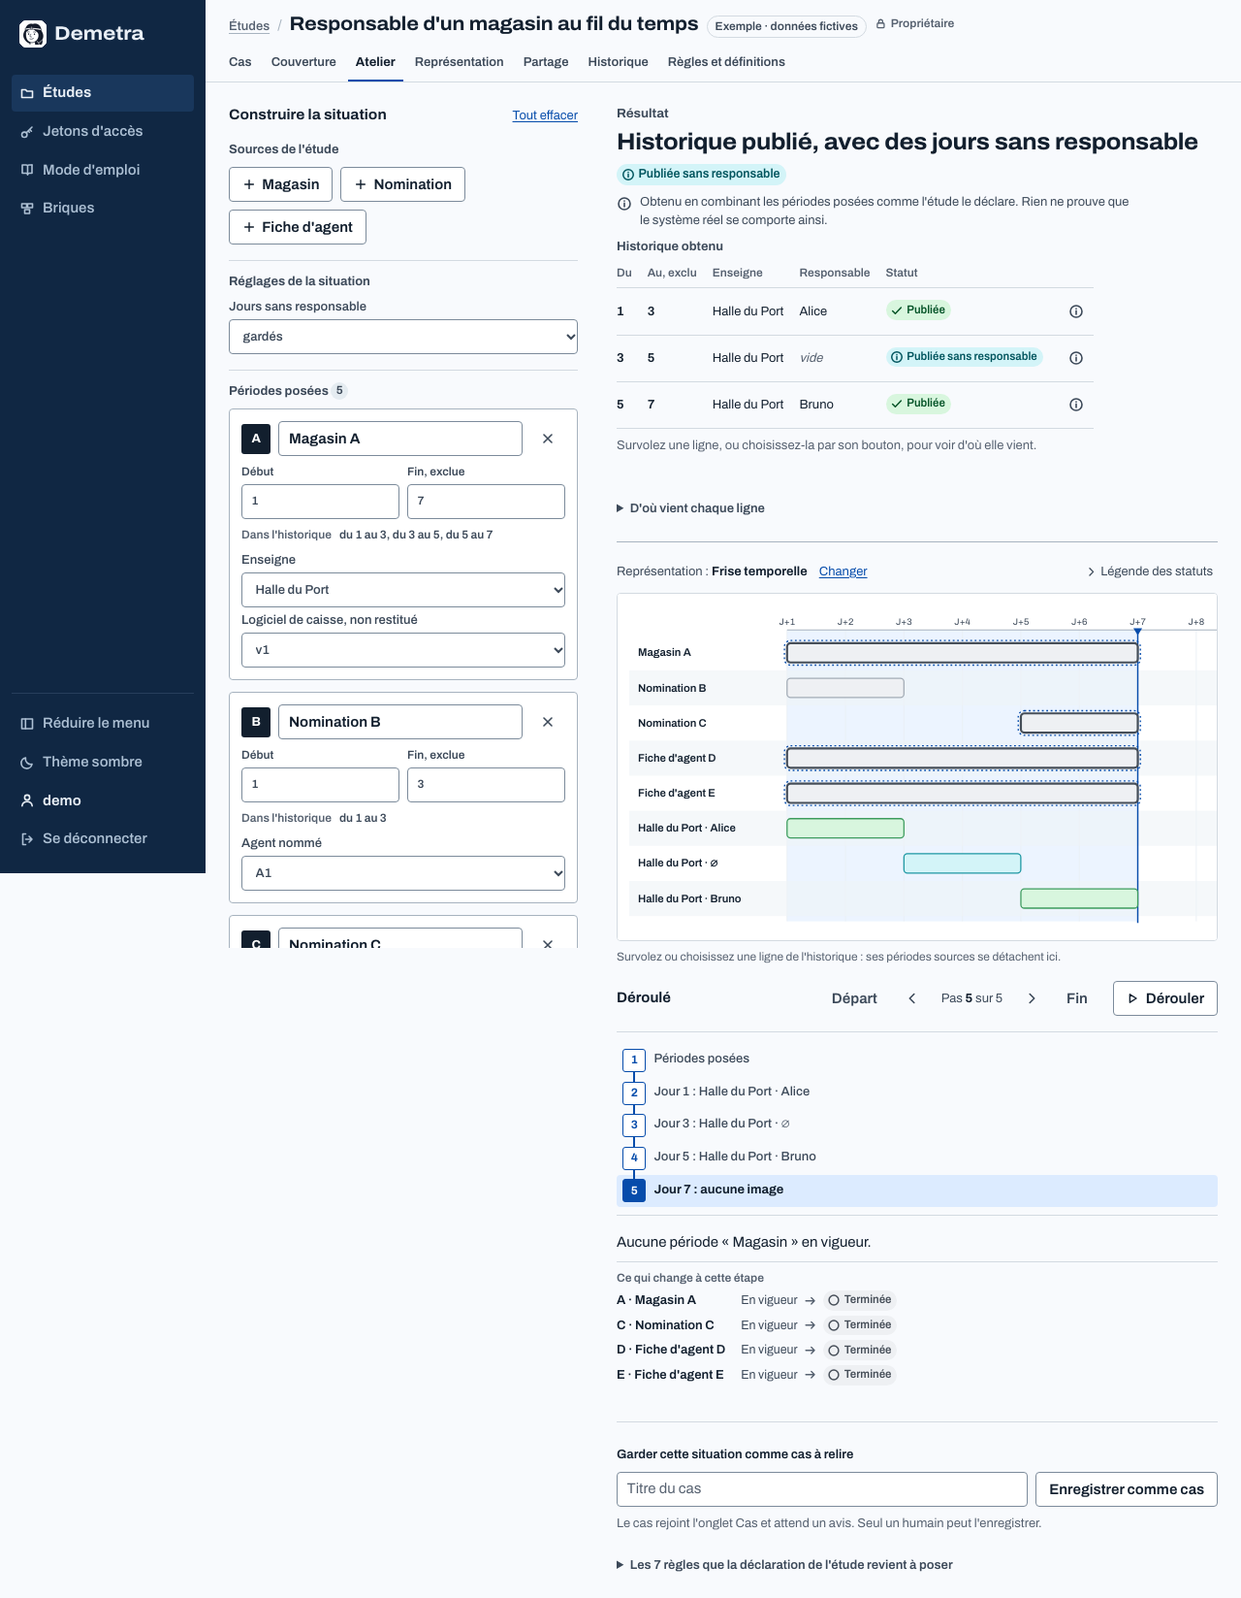
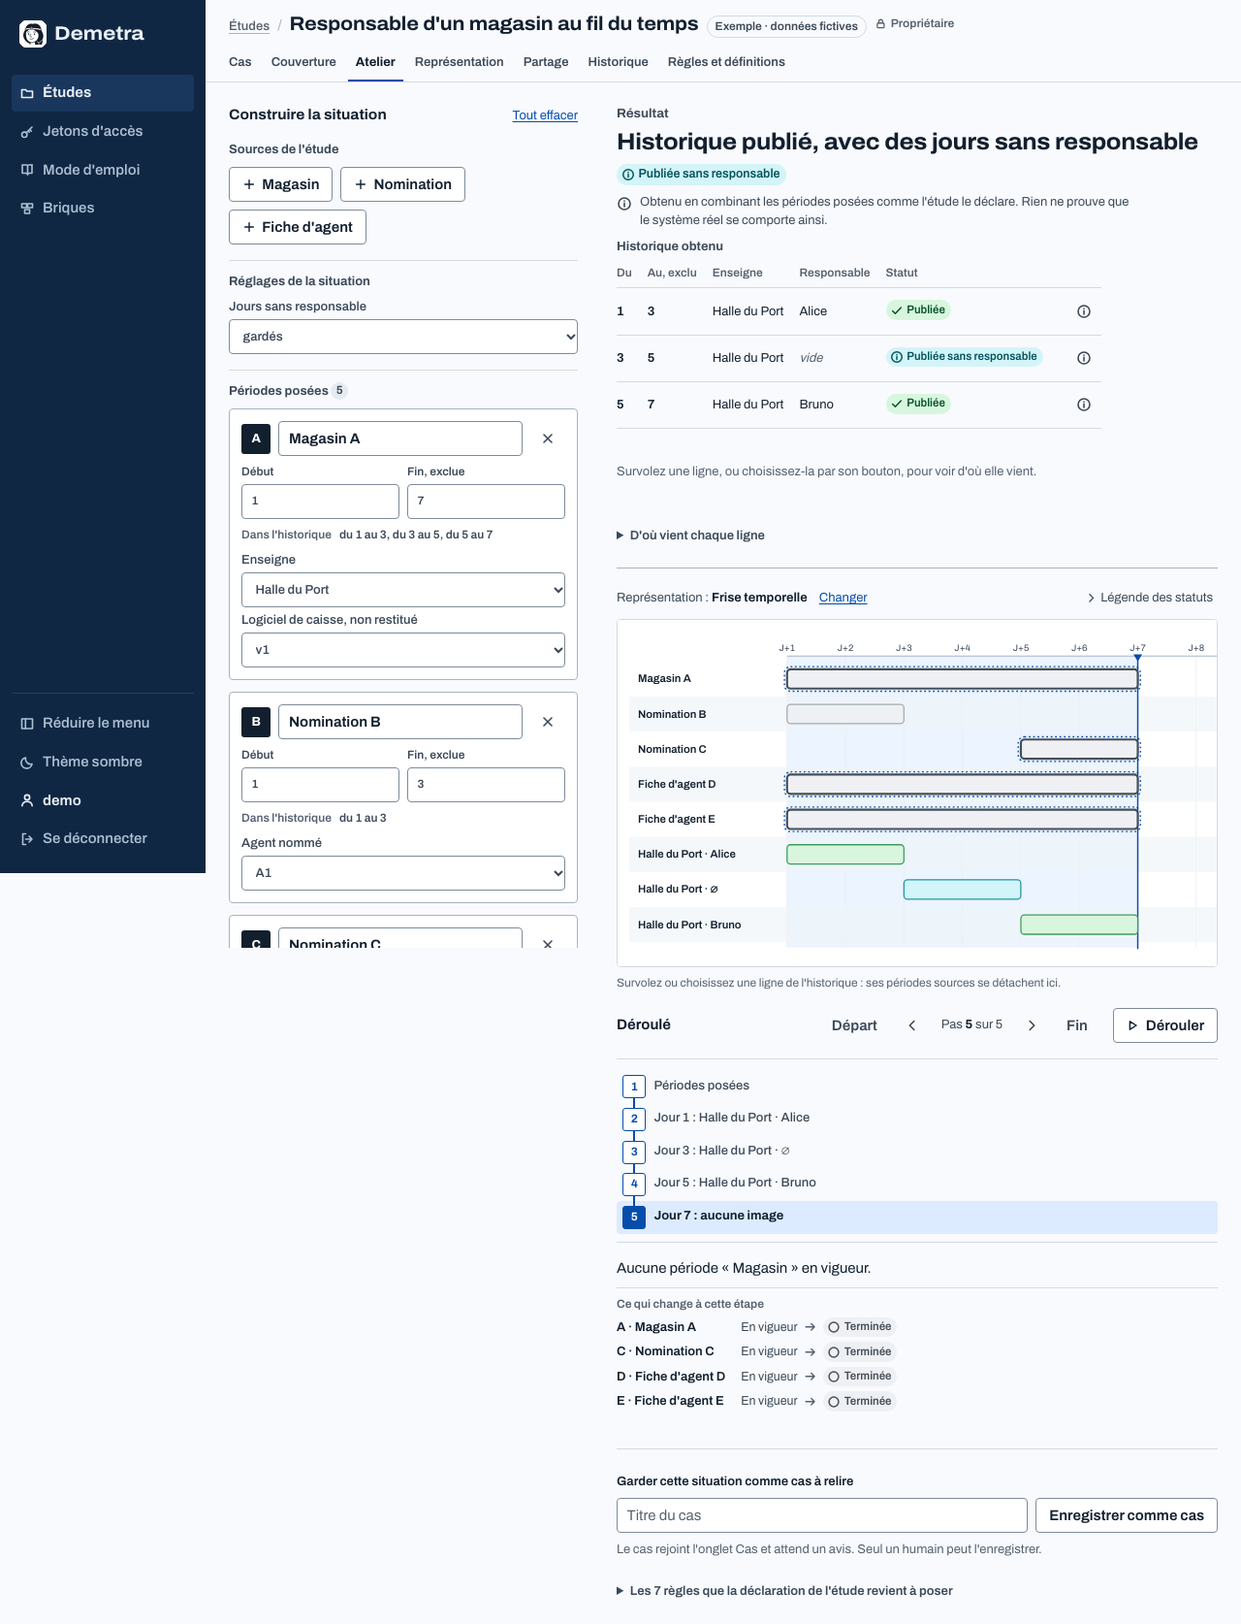
Marquer ce que le dernier geste a changé dans l'historique de l'atelier
- Après chaque geste, les lignes de l'historique portent un mot et une
  icône : « nouvelle », « modifiée » (avec ce qu'elle disait avant, en
  infobulle et pour les lecteurs d'écran), « disparue » (la ligne reste
  lisible, barrée, à sa place). Une phrase les compte, ou dit que le
  geste n'a rien changé.
- La comparaison se fait dans le navigateur, entre la page d'avant et
  celle d'après, par le début des lignes : le serveur ne garde rien
  d'une situation et ne reçoit aucune écriture.
- La dernière colonne du tableau est collante à droite : sur petit
  écran, le mot du changement et le bouton de provenance restent en
  vue quand le tableau défile dans son cadre.
- README, DESIGN, captures 45 à 47 ; parcours navigateur et test
  d'écran.

diff --git a/core/static/core/app.js b/core/static/core/app.js
@@ -323,8 +323,67 @@
       trace(historyRow(pinned));
     });
 
+    /* Ce que le dernier geste a changé dans l'historique. Les lignes d'avant sont lues dans la page au moment
+       du geste, puis comparées aux nouvelles par leur début : le serveur ne garde rien d'une situation. */
+    const historyNow = () => {
+      const table = $(".at-history", atelier);
+      return table ? $$("tbody tr[data-start]", table).map((tr) => ({ start: tr.dataset.start, sig: tr.dataset.sig, text: tr.dataset.text })) : null;
+    };
+    const deltaBadge = (kind, word) => {
+      const badge = doc.createElement("span");
+      const icon = badge.appendChild(doc.createElementNS(SVG_NS, "svg"));
+      badge.className = "at-delta at-delta-" + kind;
+      icon.setAttribute("class", "ic");
+      icon.setAttribute("aria-hidden", "true");
+      icon.appendChild(doc.createElementNS(SVG_NS, "use")).setAttribute("href", "#ui-" + { new: "plus", changed: "changed", gone: "close" }[kind]);
+      badge.appendChild(doc.createTextNode(word));
+      return badge;
+    };
+    const goneRow = (table, was) => {   // une ligne disparue reste lisible, barrée, à sa place parmi les débuts
+      const tr = doc.createElement("tr");
+      const text = tr.appendChild(doc.createElement("td"));
+      const end = tr.appendChild(doc.createElement("td"));
+      tr.className = "is-gone";
+      text.colSpan = table.tHead.rows[0].cells.length - 1;
+      text.appendChild(doc.createElement("del")).textContent = was.text;
+      end.className = "at-row-end";
+      end.appendChild(deltaBadge("gone", "disparue"));
+      const next = $$("tbody tr[data-start]", table).find((row) => Number(row.dataset.start) > Number(was.start));
+      table.tBodies[0].insertBefore(tr, next || null);
+    };
+    const showDelta = (before) => {
+      const table = $(".at-history", atelier);
+      const note = $("[data-at-delta]", atelier);
+      if (!table || !note || !before) return;
+      const old = new Map(before.map((row) => [row.start, row]));
+      const counts = { new: 0, changed: 0, gone: 0 };
+      $$("tbody tr[data-start]", table).forEach((tr) => {
+        const was = old.get(tr.dataset.start);
+        old.delete(tr.dataset.start);
+        if (was && was.sig === tr.dataset.sig) return;
+        const kind = was ? "changed" : "new";
+        const cell = $("[data-delta-cell]", tr);
+        counts[kind] += 1;
+        tr.classList.add("is-" + kind);
+        cell.insertBefore(deltaBadge(kind, was ? "modifiée" : "nouvelle"), cell.firstChild);
+        if (!was) return;
+        cell.firstChild.title = "Avant ce geste : " + was.text;
+        const said = cell.appendChild(doc.createElement("span"));
+        said.className = "sr-only";
+        said.textContent = " Avant ce geste : " + was.text + ".";
+      });
+      old.forEach((was) => { counts.gone += 1; goneRow(table, was); });
+      const parts = [];
+      const count = (n, one, many) => { if (n) parts.push(n + " " + (n > 1 ? many : one)); };
+      count(counts.new, "ligne nouvelle", "lignes nouvelles");
+      count(counts.changed, "ligne modifiée", "lignes modifiées");
+      count(counts.gone, "ligne disparue", "lignes disparues");
+      note.textContent = parts.length ? "Votre dernier geste : " + parts.join(", ") + "." : "Votre dernier geste n'a pas changé l'historique.";
+    };
+
     const load = (url) => {
       const mine = ++turn;
+      const before = historyNow();
       const key = focusKey(doc.activeElement);
       const open = $$("details[data-keep]", atelier).filter((d) => d.open).map((d) => d.dataset.keep);
       stop();
@@ -338,6 +397,7 @@
           atelier.removeAttribute("aria-busy");
           open.forEach((name) => { const d = $('details[data-keep="' + name + '"]', atelier); if (d) d.open = true; });
           ready();
+          showDelta(before);
           history.replaceState(history.state, "", landed || url);   // le serveur a rangé l'adresse : on garde la sienne
           refocus(key);
         })

diff --git a/core/static/core/app.css b/core/static/core/app.css
@@ -837,7 +837,9 @@ details.json pre { margin-top: var(--s-2); max-height: 24rem; }
 .at-feeds > span:last-child { color: var(--ink-2); font-variant-numeric: tabular-nums; }
 /* D'où vient une ligne : on la survole ou on la choisit, ses périodes sources se détachent sur la frise, dans
    les fiches et dans la liste des règles. Sans script, la liste « D'où vient chaque ligne » dit la même chose. */
-.at-history .at-row-end { width: 1%; padding-right: 0; text-align: right; white-space: nowrap; }
+/* La dernière colonne reste en vue quand le tableau défile dans son cadre : le mot du changement et le bouton
+   de provenance ne sortent jamais de l'écran. */
+.at-history .at-row-end { position: sticky; right: 0; width: 1%; padding-right: 0; padding-left: var(--s-2); background: var(--surface); text-align: right; white-space: nowrap; }
 .at-why-btn { display: none; }
 .atelier.is-live .at-why-btn { display: inline-grid; }
 .at-why-btn[aria-pressed="true"] { background: var(--accent-soft); color: var(--accent); }
@@ -857,6 +859,18 @@ details.json pre { margin-top: var(--s-2); max-height: 24rem; }
 .at-plan .tl-bar.is-traced .n-halo { stroke: var(--accent); stroke-width: 2.4; stroke-dasharray: none; opacity: 1; }
 .at-plan .tl-grip { fill: transparent; pointer-events: none; }
 .at-card.is-traced { border-color: var(--accent); box-shadow: 0 0 0 1px var(--accent); }
+/* Ce que le dernier geste a changé : un mot et une icône par ligne (jamais la couleur seule), une ligne
+   disparue reste lisible, barrée. Le navigateur compare l'historique d'avant et d'après ; le serveur ne garde
+   rien. */
+.at-delta-note { display: none; }
+.atelier.is-live .at-delta-note { display: block; min-height: 1.5em; max-width: 72ch; color: var(--ink-2); font-size: var(--t-sm); }
+.at-delta { display: inline-flex; align-items: center; gap: 0.25rem; margin-right: var(--s-2); padding: 0.1rem 0.45rem; border: 1px solid var(--line-strong); border-radius: var(--radius-sm); background: var(--raised); color: var(--ink); font-size: var(--t-xs); font-weight: 640; vertical-align: middle; }
+.at-delta .ic { width: 0.85rem; height: 0.85rem; }
+.at-delta-new { border-color: var(--accent); color: var(--accent); }
+.at-delta-gone { border-style: dashed; color: var(--ink-2); }
+.at-history tbody tr.is-new > td:first-child, .at-history tbody tr.is-changed > td:first-child { box-shadow: inset 3px 0 0 var(--accent); padding-left: var(--s-2); }
+.at-history tbody tr.is-gone > td { color: var(--ink-3); }
+.at-history tbody tr.is-gone > td:first-child { padding-left: var(--s-2); box-shadow: inset 3px 0 0 var(--line-strong); }
 .at-rules li.is-traced { background: var(--accent-soft); color: var(--ink); }
 .at-blocking { margin-top: var(--s-1); padding-left: 1.1em; list-style: disc; }
 .at-source { display: flex; gap: var(--s-2); align-items: flex-start; max-width: 72ch; color: var(--ink-2); font-size: var(--t-sm); }

diff --git a/core/templates/core/_workshop.html b/core/templates/core/_workshop.html
@@ -91,11 +91,12 @@
         <caption>Historique obtenu{% if result.blocking %} s'il était publié{% endif %}</caption>
         <thead><tr><th scope="col">Du</th><th scope="col">Au, exclu</th>{% for name in result.history.fields %}<th scope="col">{{ name }}</th>{% endfor %}<th scope="col">Statut</th><th scope="col" class="at-row-end"><span class="sr-only">Provenance</span></th></tr></thead>
         <tbody>
-          {% for row in result.history.rows %}<tr data-start="{{ row.start }}" data-image="{{ row.id }}" data-from="{{ row.sources }}" data-rules="{{ row.rules }}" data-why="Du {{ row.start }} au {{ row.end }} — {{ row.why }}" data-sig="{{ row.sig }}" data-text="{{ row.text }}"><td class="num">{{ row.start }}</td><td class="num">{{ row.end }}</td>{% for value in row.values %}<td>{% if value %}{{ value }}{% else %}<span class="at-void">vide</span>{% endif %}</td>{% endfor %}<td><span class="st" data-role="{{ row.role }}"><svg class="st-ic" width="14" height="14" aria-hidden="true"><use href="#ic-{{ row.role }}"/></svg><span class="st-tx">{{ row.status }}</span></span></td><td class="at-row-end"><button type="button" class="icon-btn at-why-btn" data-at-why aria-pressed="false" aria-label="D'où vient la ligne du {{ row.start }} au {{ row.end }}" title="D'où vient cette ligne"><svg class="ic" aria-hidden="true"><use href="#ui-info"/></svg></button></td></tr>
+          {% for row in result.history.rows %}<tr data-start="{{ row.start }}" data-image="{{ row.id }}" data-from="{{ row.sources }}" data-rules="{{ row.rules }}" data-why="Du {{ row.start }} au {{ row.end }} — {{ row.why }}" data-sig="{{ row.sig }}" data-text="{{ row.text }}"><td class="num">{{ row.start }}</td><td class="num">{{ row.end }}</td>{% for value in row.values %}<td>{% if value %}{{ value }}{% else %}<span class="at-void">vide</span>{% endif %}</td>{% endfor %}<td><span class="st" data-role="{{ row.role }}"><svg class="st-ic" width="14" height="14" aria-hidden="true"><use href="#ic-{{ row.role }}"/></svg><span class="st-tx">{{ row.status }}</span></span></td><td class="at-row-end" data-delta-cell><button type="button" class="icon-btn at-why-btn" data-at-why aria-pressed="false" aria-label="D'où vient la ligne du {{ row.start }} au {{ row.end }}" title="D'où vient cette ligne"><svg class="ic" aria-hidden="true"><use href="#ui-info"/></svg></button></td></tr>
           {% empty %}<tr><td colspan="{{ result.history.fields|length|add:4 }}">Aucune ligne : ces périodes ne donnent aucune image.</td></tr>{% endfor %}
         </tbody>
       </table>
       </div>
+      <p class="at-delta-note" data-at-delta role="status"></p>
       {% if result.history.rows %}
       <p class="at-trace" data-at-trace role="status" data-idle="Survolez une ligne, ou choisissez-la par son bouton, pour voir d'où elle vient."></p>
       <details class="at-why" data-keep="why">

diff --git a/tests/e2e/test_parcours.py b/tests/e2e/test_parcours.py
@@ -919,7 +919,7 @@ def test_atelier_periodes(site, browser):
     )
     login(page, site, "demo")
     page.goto(f"{site}/etudes/{sid}/atelier/")
-    rows = page.locator(".at-history tbody tr")
+    rows = page.locator(".at-history tbody tr[data-start]")
 
     # Page vide : les sources de l'étude, les règles que sa déclaration revient à poser, aucune période.
     expect(page.locator(".at-empty h2")).to_have_text("Composer un tarif")
@@ -1033,7 +1033,7 @@ def test_atelier_etude_de_periodes_semee(site, browser):
         "&de.A=1&a.A=7&de.B=1&a.B=3&de.C=5&a.C=7&o.C.agent=A2&de.D=1&a.D=7"
         "&de.E=1&a.E=7&o.E.matricule=A2&o.E.nom=Bruno"
     )
-    rows = page.locator(".at-history tbody tr")
+    rows = page.locator(".at-history tbody tr[data-start]")
     expect(rows).to_have_count(3)
     cells = [rows.nth(n).locator("td").all_inner_texts()[:4] for n in range(3)]
     assert cells == [
@@ -1076,6 +1076,32 @@ def test_atelier_etude_de_periodes_semee(site, browser):
     expect(page.locator('.at-card[data-brick="A"] .at-feeds')).to_contain_text(
         "du 1 au 3, du 3 au 5, du 5 au 7"
     )
+
+    # Ce que le dernier geste a changé : la seconde nomination commence un jour plus tôt. Une ligne est
+    # modifiée, une autre nouvelle, une troisième disparaît et reste lisible, barrée ; chacune porte un mot.
+    note = page.locator("[data-at-delta]")
+    expect(note).to_have_text("")
+    writes: list[str] = []
+    page.on("request", lambda request: writes.append(request.url) if request.method != "GET" else None)
+    page.fill('input[name="de.C"]', "4")
+    page.locator('input[name="de.C"]').blur()
+    expect(note).to_have_text("Votre dernier geste : 1 ligne nouvelle, 1 ligne modifiée, 1 ligne disparue.")
+    expect(rows.nth(0).locator(".at-delta")).to_have_count(0)
+    expect(rows.nth(1).locator(".at-delta")).to_have_text("modifiée")
+    expect(rows.nth(1).locator(".at-delta")).to_have_attribute(
+        "title", "Avant ce geste : du 3 au 5 · Halle du Port · vide · Publiée sans responsable"
+    )
+    expect(rows.nth(2).locator(".at-delta")).to_have_text("nouvelle")
+    gone = page.locator(".at-history tbody tr.is-gone")
+    expect(gone.locator("del")).to_have_text("du 5 au 7 · Halle du Port · Bruno · Publiée")
+    expect(gone.locator(".at-delta")).to_have_text("disparue")
+    shot(page, "47-atelier-changement", full_page=True)
+    # Un champ que l'historique ne restitue pas ne change rien, et l'écran le dit. Rien n'est écrit au
+    # serveur.
+    page.select_option('select[name="o.A.caisse"]', "v2")
+    expect(note).to_have_text("Votre dernier geste n'a pas changé l'historique.")
+    expect(page.locator(".at-delta")).to_have_count(0)
+    assert writes == []
 
     page.select_option('select[name="r.sans_responsable"]', "retirés")
     expect(rows).to_have_count(2)

diff --git a/tests/test_periodes.py b/tests/test_periodes.py
@@ -538,6 +538,11 @@ def test_the_page_says_where_each_line_comes_from(atelier, web, users):
     )
     assert rows == [("1", "I1", "A", "P1 P5 P6"), ("2", "I2", "A B C", "P1"), ("3", "I3", "A", "P1 P5 P6")]
     assert page.count('data-at-why aria-pressed="false"') == 3
+    # De quoi comparer deux historiques dans le navigateur : la ligne dit ce qui la fait « la même » et ce
+    # qu'on en dira si elle disparaît. Le serveur, lui, ne garde rien : la zone du changement arrive vide.
+    assert 'data-sig="3|Base|10|Tarif remisé" data-text="du 2 au 3 · Base · 10 · Tarif remisé"' in page
+    assert 'data-sig="2|Base||Plein tarif" data-text="du 1 au 2 · Base · vide · Plein tarif"' in page
+    assert '<p class="at-delta-note" data-at-delta role="status"></p>' in page and "at-delta-new" not in page
     assert (
         "<b>Du 2 au 3</b> — Contrat : Contrat A ; Remise : Remise B ; Barème : Barème C. Règle P1.</li>"
         in page

diff --git a/DESIGN.md b/DESIGN.md
@@ -498,6 +498,7 @@ Neuf représentations s'ajoutent aux sept premières ; elles suivent les mêmes 
 - **Rechargement.** Tout changement remplace la zone sans recharger la page ; le focus reste où il était, l'adresse suit et ne garde que la situation. Sans script, le bouton « Mettre à jour le résultat » fait de même en rechargeant. Aucune animation hors du défilement des pas.
 - **Sans règles.** Une étude qui ne déclare pas de règles montre un encadré `empty` : pourquoi il n'y a pas d'atelier, et un bouton vers ses cas.
 - **Atelier de périodes.** Même écran, mêmes places ; seuls les mots changent (« Sources de l'étude », « Périodes posées »). La fiche d'une période porte, sous son nom, deux champs numériques côte à côte, « Début » et « Fin, exclue », en chiffres tabulaires ; ni évènements ni liens. Une borne vidée reste vide : c'est une borne absente. À droite, sous le résultat, le tableau « Historique obtenu » : Du, Au (exclu), une colonne par champ restitué, le statut en pastille ; une valeur absente s'écrit « vide » en italique `ink-3` ; le tableau défile dans son cadre sous 390 px. Si le traitement est bloqué, un encadré `warning` le dit avant le tableau et liste les raisons. Dans le plan de travail, une frise garde une largeur minimale de 52rem et défile dans son cadre ; la phrase d'aide aux gestes disparaît, puisqu'une frise n'a pas de briques à relier. La touche Entrée dans un champ met à jour le résultat.
+- **Ce que le dernier geste a changé.** Dans la dernière colonne du tableau, un mot dans un cartouche à icône : « nouvelle » (contour et texte `accent`, icône plus), « modifiée » (contour `line-strong`, icône de changement, l'ancienne ligne en infobulle et pour les lecteurs d'écran), « disparue » (contour pointillé, icône de fermeture, sur une ligne barrée en `ink-3`). Un filet de 3 px en tête de ligne double le mot, jamais seul. Une phrase sous le tableau compte les changements ou dit qu'il n'y en a pas. La dernière colonne est collante à droite : sur petit écran, quand le tableau défile dans son cadre, le mot et le bouton de provenance restent en vue. Les marques durent jusqu'au geste suivant.
 - **Provenance d'une ligne.** Chaque ligne de l'historique finit par un bouton à icône « info ». Survol, focus ou clic : la ligne passe en `accent-soft`, ses périodes sources gardent leur opacité sur la frise et prennent un halo `accent`, les autres barres tombent à 30 % ; les fiches concernées et les règles en cause prennent le liseré ou le fond d'accent. Une phrase sous le tableau, à hauteur réservée (rien ne bouge au survol), dit la période retenue par source et les règles ; au repos elle dit comment s'en servir, en `ink-3`. Un clic ou Entrée garde la ligne (`aria-pressed`), Échap la lâche. Sans script : le bouton et la phrase disparaissent, la liste repliable « D'où vient chaque ligne » reste. La fiche d'une période dit « Dans l'historique : du 1 au 3, du 3 au 5 », ou « aucune ligne » ; une période invalide ou ignorée garde sa pastille, sous « Hors du calcul ». Le compte des briques par état final n'est pas montré pour des périodes : le tableau le remplace.
 
 ### Messages

diff --git a/README.md b/README.md
@@ -262,6 +262,12 @@ compose**, et le site calcule.
 | les champs restitués, et si les images identiques qui se suivent se réunissent | les règles que cette déclaration revient à poser, écrites en phrases par le site |
 | le sort d'une période invalide (durée nulle, borne absente, bornes inversées) | l'encadré « Le traitement est bloqué » et sa raison |
 
+**Ce que le dernier geste a changé.** Après chaque geste, l'historique marque ses lignes d'un mot et d'une
+icône : « nouvelle », « modifiée » (avec ce qu'elle disait avant), « disparue » (la ligne reste lisible,
+barrée, à sa place) ; une phrase les compte, ou dit que le geste n'a rien changé — c'est ainsi qu'on voit qu'un
+champ non restitué ne pèse pas. La comparaison se fait dans le navigateur, entre la page d'avant et celle
+d'après : le serveur ne garde rien d'une situation. Sans script, la page se recharge sans ces marques.
+
 **D'où vient une ligne.** Survoler une ligne de l'historique, ou la choisir par son bouton (au clavier aussi),
 fait ressortir ses périodes sources sur la frise et dans les fiches, et les règles en cause dans la liste des
 règles ; une phrase sous le tableau dit laquelle a été retenue pour chaque source, laquelle elle a devancée, et
@@ -437,9 +443,10 @@ uv run ruff check .
   ni script tiers dans l'interface.
 - `docs/captures/` — captures des écrans principaux, produites par les tests de bout en bout ; `19` à `27` :
   une capture par représentation du catalogue élargi ; `28` : le choix à trois niveaux ; `29` : les exemples de
-  la page Briques ; `30` : diagramme de séquence sur petit écran ; `40` à `46` : l'onglet « Atelier » (page vide,
+  la page Briques ; `30` : diagramme de séquence sur petit écran ; `40` à `47` : l'onglet « Atelier » (page vide,
   situation construite, seconde étude, mobile en thème sombre, situation construite au glisser-déposer, atelier
-  de périodes de l'étude « Responsable d'un magasin au fil du temps », provenance d'une ligne de l'historique).
+  de périodes de l'étude « Responsable d'un magasin au fil du temps », provenance d'une ligne de l'historique,
+  ce que le dernier geste a changé).
 
 ## Architecture en bref
 

diff --git a/.impeccable/surfaces/core-templates-core-workshop-html.md b/.impeccable/surfaces/core-templates-core-workshop-html.md
@@ -32,6 +32,6 @@ Demande de l'utilisateur après la première version, le 24 novembre 2026 : « a
 
 Demande de l'utilisateur, le 24 novembre 2026 : « C'est généralisable maintenant sur tous les autres type de représentation ? Tu peux faire l'atelier "Historique" en démo ? ». Fait : une seconde famille d'atelier, « périodes », sur le même écran — fiches à deux bornes, tableau « Historique obtenu », encadré de blocage. Non fait : tirer ou étirer une période directement sur la frise.
 
-Demande de l'utilisateur, le 25 novembre 2026 : « tu peux tout faire » (les améliorations proposées). Fait pour l'atelier de périodes : le déroulé va au bout de l'axe ; chaque ligne de l'historique dit d'où elle vient (survol, clic, clavier), et chaque fiche dit les lignes qu'elle alimente.
+Demande de l'utilisateur, le 25 novembre 2026 : « tu peux tout faire » (les améliorations proposées). Fait pour l'atelier de périodes : le déroulé va au bout de l'axe ; chaque ligne de l'historique dit d'où elle vient (survol, clic, clavier), et chaque fiche dit les lignes qu'elle alimente ; après chaque geste, l'historique marque ses lignes nouvelles, modifiées et disparues.
 
 FINISH : unreviewed and undocumented is unfinished; la revue de finition (`impeccable-finish-reviewer`) n'a pas été passée sur cet écran.
